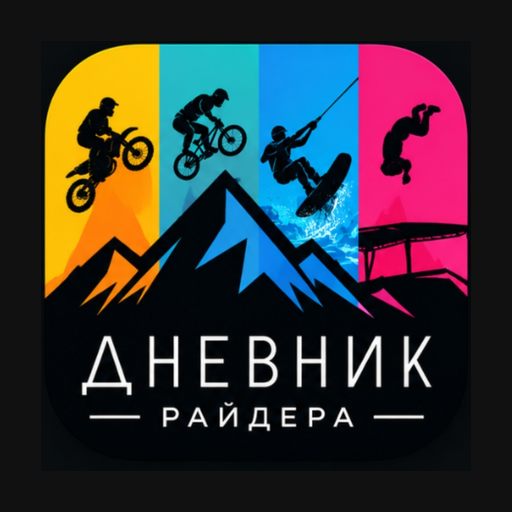
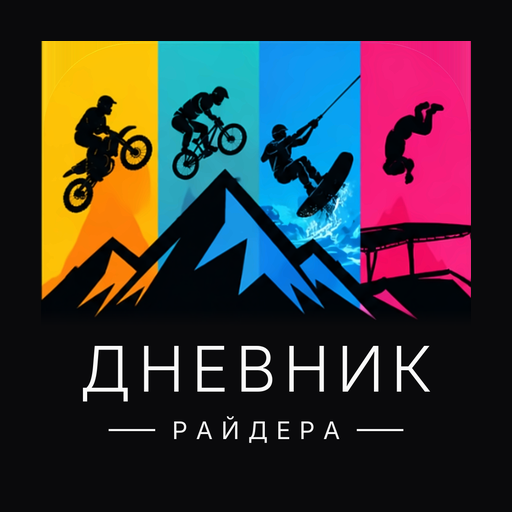
Иконка в высоком качестве
Claude-Session: https://claude.ai/code/session_01VzpiBHDXbTxmbsp77LZ4Y7

diff --git a/sw.js b/sw.js
@@ -1,5 +1,5 @@
 /* Дневник райдера — офлайн-кэш. Меняйте VERSION при каждом обновлении. */
-const VERSION = 'dnevnik-v2';
+const VERSION = 'dnevnik-v3';
 const CORE = ['./', './index.html', './manifest.webmanifest', './icon-192.png', './icon-512.png', './apple-touch-icon.png'];
 
 self.addEventListener('install', e => {
